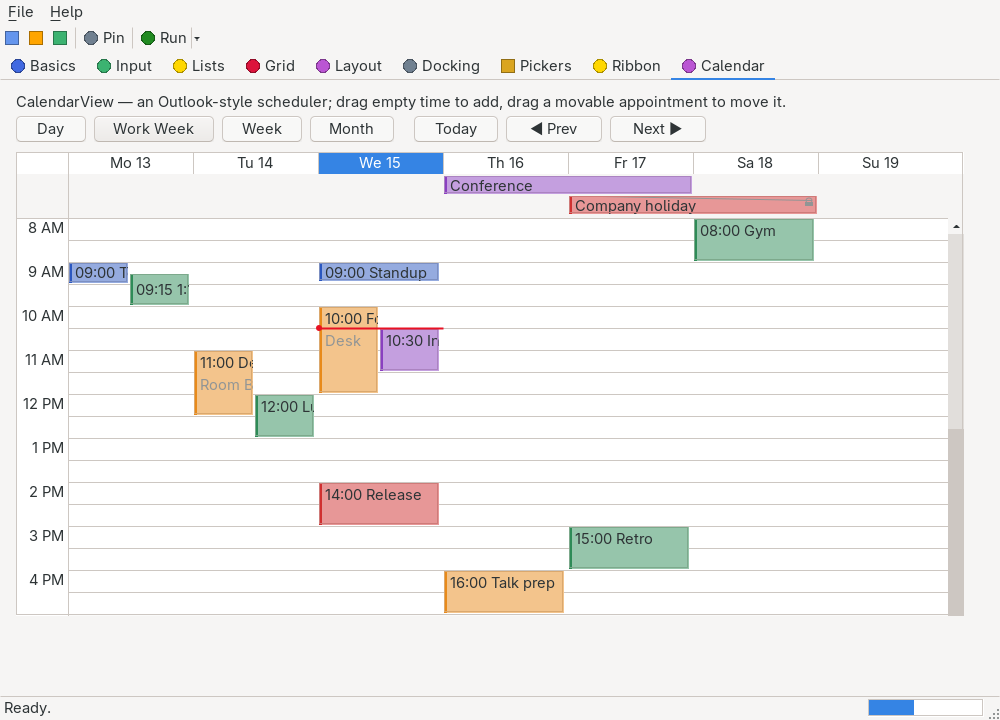
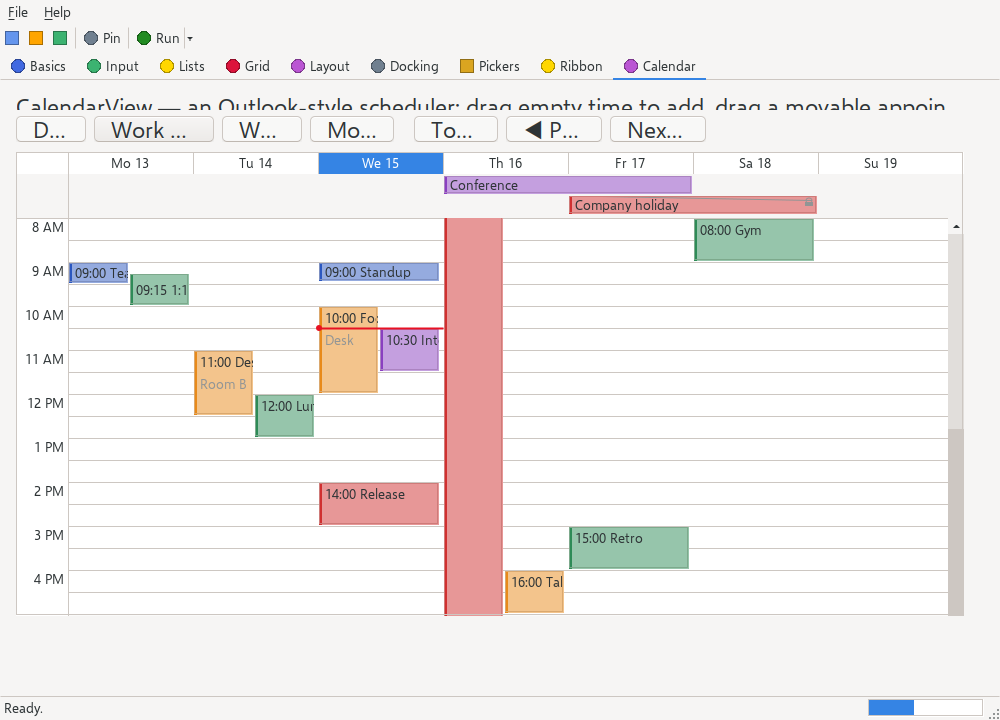
* CalendarView: multi-day timed spans clamp per day with continuation chevrons; only real edges resize (docs/PRD.md §7.5)

diff --git a/NativeForms.Tests/CalendarViewTests.cs b/NativeForms.Tests/CalendarViewTests.cs
@@ -536,4 +536,171 @@ internal sealed class CalendarViewTests
         // the bound set is — the virtualization guarantee.
         Assert.That(calendar.LaidOutBoxCount, Is.LessThan(200), $"{calendar.LaidOutBoxCount} boxes for a week out of 100k appointments");
     }
+
+    // --- Multi-day / out-of-view resize -------------------------------------------------------------
+
+    // A 2026-07-15 10:00 → 2026-07-17 14:00 appointment: three days, its start and end on different days.
+    private static Appointment Trip() => new("Trip", new(2026, 7, 15, 10, 0, 0), new(2026, 7, 17, 14, 0, 0));
+
+    private static CalendarView CreateDay(DateTime day, out HeadlessCanvasPeer canvas, params Appointment[] appts)
+    {
+        var calendar = new CalendarView
+        {
+            Bounds = new(0, 0, 700, 1100),
+            ViewMode = CalendarViewMode.Day,
+            SelectedDate = day,
+            Now = _NowInstant,
+        };
+        calendar.SetAppointments(appts);
+
+        var backend = new HeadlessBackend();
+        var form = new Form();
+        form.Controls.Add(calendar);
+        Application.Run(form, backend);
+        canvas = backend.Created.OfType<HeadlessCanvasPeer>().Single();
+        return calendar;
+    }
+
+    [Test]
+    public void A_multi_day_box_is_clamped_and_flags_its_off_view_edges()
+    {
+        var start = CreateDay(new DateTime(2026, 7, 15), out _, Trip());
+        var middle = CreateDay(new DateTime(2026, 7, 16), out _, Trip());
+        var end = CreateDay(new DateTime(2026, 7, 17), out _, Trip());
+
+        Assert.Multiple(() =>
+        {
+            Assert.That(start.BoxClipFlags(0), Is.EqualTo((false, true)), "the start day owns the real start, continues below");
+            Assert.That(middle.BoxClipFlags(0), Is.EqualTo((true, true)), "a spanned middle day is a continuation both ways");
+            Assert.That(end.BoxClipFlags(0), Is.EqualTo((true, false)), "the end day owns the real end, continues above");
+        });
+    }
+
+    [Test]
+    public void Resizing_the_start_on_the_first_day_leaves_the_off_view_end_untouched()
+    {
+        var calendar = CreateDay(new DateTime(2026, 7, 15), out var canvas, Trip());
+        AppointmentMoveEventArgs? moved = null;
+        calendar.AppointmentMoved += (_, e) => moved = e;
+
+        Assert.That(calendar.TryGetAppointmentBounds(0, out var bounds), Is.True);
+        var cx = bounds.X + (bounds.Width / 2);
+        var top = bounds.Y + 2; // the real start edge at 10:00
+
+        canvas.RaiseMouseDown(cx, top);
+        canvas.RaiseMouseMove(cx, top - (2 * _SlotPx)); // pull the start up one hour → 09:00
+        canvas.RaiseMouseUp(cx, top - (2 * _SlotPx));
+
+        Assert.That(moved, Is.Not.Null);
+        Assert.Multiple(() =>
+        {
+            Assert.That(moved!.Start, Is.EqualTo(new DateTime(2026, 7, 15, 9, 0, 0)), "the start moved earlier");
+            Assert.That(moved.End, Is.EqualTo(new DateTime(2026, 7, 17, 14, 0, 0)), "the out-of-view end held");
+        });
+    }
+
+    [Test]
+    public void Resizing_the_end_on_the_last_day_leaves_the_off_view_start_untouched()
+    {
+        var calendar = CreateDay(new DateTime(2026, 7, 17), out var canvas, Trip());
+        AppointmentMoveEventArgs? moved = null;
+        calendar.AppointmentMoved += (_, e) => moved = e;
+
+        Assert.That(calendar.TryGetAppointmentBounds(0, out var bounds), Is.True);
+        var cx = bounds.X + (bounds.Width / 2);
+        var bottom = bounds.Bottom - 3; // the real end edge at 14:00
+
+        canvas.RaiseMouseDown(cx, bottom);
+        canvas.RaiseMouseMove(cx, bottom - (2 * _SlotPx)); // pull the end up one hour → 13:00
+        canvas.RaiseMouseUp(cx, bottom - (2 * _SlotPx));
+
+        Assert.That(moved, Is.Not.Null);
+        Assert.Multiple(() =>
+        {
+            Assert.That(moved!.Start, Is.EqualTo(new DateTime(2026, 7, 15, 10, 0, 0)), "the out-of-view start held");
+            Assert.That(moved.End.Date, Is.EqualTo(new DateTime(2026, 7, 17)), "the end stayed on the last day");
+            Assert.That(moved.End, Is.LessThan(new DateTime(2026, 7, 17, 14, 0, 0)), "and moved earlier");
+            Assert.That(moved.End, Is.GreaterThan(moved.Start), "still a valid span");
+            Assert.That((moved.End - moved.End.Date).TotalMinutes % calendar.TimeScale, Is.Zero, "snapped to a slot");
+        });
+    }
+
+    [Test]
+    public void A_continuation_edge_moves_the_appointment_rather_than_resizing_it()
+    {
+        // On the end day the top edge is a continuation from the previous day: grabbing it must not be
+        // read as a start-resize (which would keep the end and shrink the span), but as a whole move.
+        var calendar = CreateDay(new DateTime(2026, 7, 17), out var canvas, Trip());
+        AppointmentMoveEventArgs? moved = null;
+        calendar.AppointmentMoved += (_, e) => moved = e;
+        var originalSpan = Trip().End - Trip().Start;
+
+        Assert.That(calendar.TryGetAppointmentBounds(0, out var bounds), Is.True);
+        var cx = bounds.X + (bounds.Width / 2);
+        var top = bounds.Y + 2; // the clamped continuation edge
+
+        canvas.RaiseMouseDown(cx, top);
+        canvas.RaiseMouseMove(cx, top + (4 * _SlotPx));
+        canvas.RaiseMouseUp(cx, top + (4 * _SlotPx));
+
+        Assert.That(moved, Is.Not.Null);
+        Assert.That(moved!.End - moved.Start, Is.EqualTo(originalSpan), "the span is preserved — a move, not an edge resize");
+    }
+
+    [Test]
+    public void A_spanned_middle_day_paints_without_error_and_moves_from_either_edge()
+    {
+        var calendar = CreateDay(new DateTime(2026, 7, 16), out var canvas, Trip());
+        Assert.DoesNotThrow(() => canvas.RaisePaint(), "the both-way continuation chevrons paint");
+
+        AppointmentMoveEventArgs? moved = null;
+        calendar.AppointmentMoved += (_, e) => moved = e;
+        var span = Trip().End - Trip().Start;
+
+        Assert.That(calendar.TryGetAppointmentBounds(0, out var bounds), Is.True);
+        var cx = bounds.X + (bounds.Width / 2);
+
+        canvas.RaiseMouseDown(cx, bounds.Y + 2);
+        canvas.RaiseMouseMove(cx, bounds.Y + 2 + (3 * _SlotPx));
+        canvas.RaiseMouseUp(cx, bounds.Y + 2 + (3 * _SlotPx));
+
+        Assert.That(moved, Is.Not.Null);
+        Assert.That(moved!.End - moved.Start, Is.EqualTo(span), "neither continuation edge resizes; it moves");
+    }
+
+    [Test]
+    public void An_appointment_starting_before_the_visible_range_is_clamped_on_the_first_day()
+    {
+        // Starts five days before the shown week and ends inside it — the classic "starts out of view".
+        var early = new Appointment("Away", new(2026, 7, 10, 8, 0, 0), new(2026, 7, 14, 12, 0, 0));
+        var calendar = new CalendarView { Bounds = new(0, 0, 900, 1100), SelectedDate = _Week, Now = _NowInstant };
+        calendar.SetAppointments(new[] { early });
+        var backend = new HeadlessBackend();
+        var form = new Form();
+        form.Controls.Add(calendar);
+        Application.Run(form, backend);
+
+        var flags = calendar.BoxClipFlags(0); // first visible day is Monday 2026-07-13
+        Assert.That(flags.ClipStart, Is.True, "the real start is before the week, so the first day's box is a continuation");
+    }
+
+    [Test]
+    public void Hovering_a_real_edge_shows_the_resize_cursor()
+    {
+        var calendar = CreateDay(new DateTime(2026, 7, 15), out var canvas, Trip());
+        Assert.That(calendar.TryGetAppointmentBounds(0, out var bounds), Is.True);
+        var cx = bounds.X + (bounds.Width / 2);
+
+        canvas.RaiseMouseMove(cx, bounds.Y + 2); // over the real start edge
+        var onEdge = ((HeadlessCanvasPeer)calendar.Peer!).Cursor;
+
+        canvas.RaiseMouseMove(cx, bounds.Y + (bounds.Height / 2)); // over the body
+        var onBody = ((HeadlessCanvasPeer)calendar.Peer!).Cursor;
+
+        Assert.Multiple(() =>
+        {
+            Assert.That(onEdge, Is.SameAs(Cursors.SizeNS), "the real edge offers a north-south resize cursor");
+            Assert.That(onBody, Is.Not.SameAs(Cursors.SizeNS), "the body does not");
+        });
+    }
 }

diff --git a/NativeForms.Core/Controls/CalendarView.cs b/NativeForms.Core/Controls/CalendarView.cs
@@ -48,6 +48,18 @@ public class CalendarView : OwnerDrawnControl
         public Rectangle Rect;
         public bool Timed;
         public string Text;
+
+        /// <summary>The day column this box belongs to — the base date its clamped top/bottom edges
+        /// are measured from, so a resize on a multi-day box anchors to the right day.</summary>
+        public DateTime Day;
+
+        /// <summary>Whether the top edge is a clamped continuation from an earlier day (the real start
+        /// is out of view), not the appointment's actual start — so it offers no start-resize.</summary>
+        public bool ClipStart;
+
+        /// <summary>Whether the bottom edge is a clamped continuation into a later day (the real end is
+        /// out of view), not the appointment's actual end — so it offers no end-resize.</summary>
+        public bool ClipEnd;
     }
 
     /// <summary>What an armed appointment drag is doing: sliding the whole body to a new time, or
@@ -127,6 +139,7 @@ public class CalendarView : OwnerDrawnControl
     private int _moveGrabPixels;
     private int _moveGrabDays;
     private int _moveDurationMinutes;
+    private DateTime _moveDay;   // the box's day column, the base date a resize anchors to
     private string? _moveSubject;
     private Color _moveAccent;
     private DateTime _previewStart;
@@ -365,6 +378,19 @@ public class CalendarView : OwnerDrawnControl
         return false;
     }
 
+    /// <summary>The continuation-clamp flags of the first laid-out timed box for an appointment index —
+    /// <c>ClipStart</c>/<c>ClipEnd</c> mark a box whose top/bottom edge is a multi-day continuation
+    /// rather than the real start/end. For tests of the out-of-view multi-day handling.</summary>
+    internal (bool ClipStart, bool ClipEnd) BoxClipFlags(int index)
+    {
+        this.EnsureLayout();
+        for (var i = 0; i < _layout.Count; ++i)
+            if (_layout[i].Index == index && _layout[i].Timed)
+                return (_layout[i].ClipStart, _layout[i].ClipEnd);
+
+        return (false, false);
+    }
+
     // --- Geometry ----------------------------------------------------------------------------------
 
     private bool IsMonth => _viewMode == CalendarViewMode.Month;
@@ -599,8 +625,10 @@ public class CalendarView : OwnerDrawnControl
         for (var k = 0; k < n; ++k)
         {
             var appt = _appointments[_dayScratch[k]];
-            var startMinutes = appt.Start < dayStart ? 0 : (int)(appt.Start - dayStart).TotalMinutes;
-            var endMinutes = appt.End > dayEnd ? 1440 : (int)(appt.End - dayStart).TotalMinutes;
+            var clipStart = appt.Start < dayStart;
+            var clipEnd = appt.End > dayEnd;
+            var startMinutes = clipStart ? 0 : (int)(appt.Start - dayStart).TotalMinutes;
+            var endMinutes = clipEnd ? 1440 : (int)(appt.End - dayStart).TotalMinutes;
             if (endMinutes <= startMinutes)
                 endMinutes = startMinutes + _timeScale;
 
@@ -615,6 +643,9 @@ public class CalendarView : OwnerDrawnControl
                 Timed = true,
                 Text = ChipText(appt),
                 Rect = new(x, top + 1, Math.Max(1, slotWidth - 2), Math.Max(this.ChipHeight, bottom - top - 2)),
+                Day = dayStart,
+                ClipStart = clipStart,
+                ClipEnd = clipEnd,
             });
         }
     }
@@ -1038,6 +1069,14 @@ public class CalendarView : OwnerDrawnControl
         if (!appt.Movable)
             PaintLock(g, new(rect.Right - 12, rect.Y + 2, 8, 8), theme.DisabledText);
 
+        // A multi-day box continues off this day: a small chevron at the clamped edge says so, and
+        // marks the edge that carries no resize grab.
+        if (box.ClipStart && rect.Width > 12)
+            Glyphs.PaintTriangle(g, accent, new(rect.X + (rect.Width / 2) - 4, rect.Y + 1, 8, 4), GlyphDirection.Up);
+
+        if (box.ClipEnd && rect.Width > 12)
+            Glyphs.PaintTriangle(g, accent, new(rect.X + (rect.Width / 2) - 4, rect.Bottom - 5, 8, 4), GlyphDirection.Down);
+
         g.PopClip();
 
         if (selected)
@@ -1212,6 +1251,40 @@ public class CalendarView : OwnerDrawnControl
 
     /// <summary>Arms a reschedule on a movable appointment: records the grab and seeds the preview. A
     /// non-movable appointment is refused here, so it never drags and shows no move affordance.</summary>
+    /// <summary>Which edge (if any) a y falls on for a timed box, honoring the resizable-height floor
+    /// and the continuation clamps: a clamped edge is a continuation, not a real start/end, so it never
+    /// resizes — a multi-day box's off-view edge stays put.</summary>
+    private static DragKind EdgeKindOf(ApptBox box, int screenTop, int y)
+    {
+        if (box.Rect.Height < _EdgeGrab * 3)
+            return DragKind.Move;
+
+        var screenBottom = screenTop + box.Rect.Height;
+        if (!box.ClipStart && y - screenTop <= _EdgeGrab)
+            return DragKind.ResizeStart;
+
+        if (!box.ClipEnd && screenBottom - y <= _EdgeGrab)
+            return DragKind.ResizeEnd;
+
+        return DragKind.Move;
+    }
+
+    /// <summary>The resize edge under a client point, or <see cref="DragKind.Move"/> when the point is
+    /// not on a movable timed box's real edge — the basis for the resize cursor.</summary>
+    private DragKind EdgeKindAt(int x, int y)
+    {
+        var hit = this.HitTestBox(x, y);
+        if (hit < 0)
+            return DragKind.Move;
+
+        var box = _layout[hit];
+        if (!box.Timed || !_appointments[box.Index].Movable)
+            return DragKind.Move;
+
+        var screenTop = box.Rect.Y + this.BodyBounds.Y - _scrollY;
+        return EdgeKindOf(box, screenTop, y);
+    }
+
     private void PrimeMove(ApptBox box, int index, MouseEventArgs e)
     {
         var appt = _appointments[index];
@@ -1231,14 +1304,8 @@ public class CalendarView : OwnerDrawnControl
         {
             var body = this.BodyBounds;
             var screenTop = box.Rect.Y + body.Y - _scrollY;
-            var screenBottom = screenTop + box.Rect.Height;
-
-            // Only a tall enough box offers edge-resize; a short one is all move so it never becomes
-            // impossible to slide.
-            var resizable = box.Rect.Height >= _EdgeGrab * 3;
-            _dragKind = resizable && e.Y - screenTop <= _EdgeGrab ? DragKind.ResizeStart
-                : resizable && screenBottom - e.Y <= _EdgeGrab ? DragKind.ResizeEnd
-                : DragKind.Move;
+            _moveDay = box.Day;
+            _dragKind = EdgeKindOf(box, screenTop, e.Y);
             _moveGrabPixels = e.Y - screenTop;
         }
         else
@@ -1273,19 +1340,25 @@ public class CalendarView : OwnerDrawnControl
         {
             case DragKind.ResizeStart:
             {
-                var endMin = (int)(appt.End - appt.Start.Date).TotalMinutes;
-                var min = Math.Clamp(this.SnapMinutes(this.MinutesForY(e.Y - grid.Y + _scrollY)), 0, endMin - _timeScale);
-                _previewStart = appt.Start.Date.AddMinutes(min);
+                // Anchor to the box's own day: the moved start stays on that day, capped below by the
+                // end (relative to the day, but never past midnight since the start cannot leave the day).
+                var endRel = (int)(appt.End - _moveDay).TotalMinutes;
+                var upper = Math.Min(1440, endRel) - _timeScale;
+                var min = Math.Clamp(this.SnapMinutes(this.MinutesForY(e.Y - grid.Y + _scrollY)), 0, Math.Max(0, upper));
+                _previewStart = _moveDay.AddMinutes(min);
                 _previewEnd = appt.End;
                 break;
             }
 
             case DragKind.ResizeEnd:
             {
-                var startMin = (int)(appt.Start - appt.Start.Date).TotalMinutes;
-                var min = Math.Clamp(this.SnapMinutes(this.MinutesForY(e.Y - grid.Y + _scrollY)), startMin + _timeScale, 1440);
+                // Anchor to the box's own day: the moved end stays on that day, floored above by the
+                // start (relative to the day; a start on an earlier day floors at the first slot).
+                var startRel = (int)(appt.Start - _moveDay).TotalMinutes;
+                var lower = Math.Max(0, startRel) + _timeScale;
+                var min = Math.Clamp(this.SnapMinutes(this.MinutesForY(e.Y - grid.Y + _scrollY)), lower, 1440);
                 _previewStart = appt.Start;
-                _previewEnd = appt.Start.Date.AddMinutes(min);
+                _previewEnd = _moveDay.AddMinutes(min);
                 break;
             }
 
@@ -1448,7 +1521,11 @@ public class CalendarView : OwnerDrawnControl
         }
 
         if (!_rangeDragging)
+        {
+            // Idle: show the north-south resize cursor over a real (non-continuation) timed edge.
+            this.SetRegionCursor(this.EdgeKindAt(e.X, e.Y) != DragKind.Move ? Cursors.SizeNS : null);
             return;
+        }
 
         if (this.IsMonth)
         {

diff --git a/NativeForms.Demo/MainForm.CalendarPage.cs b/NativeForms.Demo/MainForm.CalendarPage.cs
@@ -40,6 +40,9 @@ internal sealed partial class MainForm
             new("Talk prep", mon.AddDays(3).AddHours(16), mon.AddDays(3).AddHours(17), _CatFocus),
             new("Retro", mon.AddDays(4).AddHours(15), mon.AddDays(4).AddHours(16), _CatPersonal),
             new("Gym", mon.AddDays(5).AddHours(8), mon.AddDays(5).AddHours(9), _CatPersonal),
+            // A multi-day timed span: it clamps to each day it crosses and shows continuation
+            // chevrons, and only its real start/end edges (not the clamped ones) offer a resize.
+            new("On-call", mon.AddDays(2).AddHours(20), mon.AddDays(4).AddHours(6), _CatUrgent, Location: "Ops"),
             // A locked entry: the whole day is off, and it must not be dragged onto another slot.
             new("Company holiday", mon.AddDays(4), mon.AddDays(5), _CatUrgent, AllDay: true, Movable: false),
         ];

diff --git a/docs/PRD.md b/docs/PRD.md
@@ -456,10 +456,12 @@ strategy (may differ per platform; note exceptions inline).
       "+n more" overflow; reflection-free `SetAppointments<T>(…, Func<T,Appointment>)` binding into a
       start-sorted snapshot; side-by-side overlap column packing; click select (`SelectionChanged`),
       double-click/Enter `AppointmentActivate`, empty-time drag `TimeRangeSelected` (`DateRangeEventArgs`),
-      drag-to-move/edge-resize of a movable appointment with a live snapped ghost — cancelable
-      `AppointmentMoving` then `AppointmentMoved` (`AppointmentMoveEventArgs`), the app applies + re-binds,
-      per-entry lockable via `Appointment.Movable` (locked entries show a padlock and refuse to drag),
-      Escape cancels; keyboard/wheel navigation; virtualized (only visible days laid out, bounded for
+      drag-to-move/edge-resize of a movable appointment with a live snapped ghost and a north-south
+      resize cursor — cancelable `AppointmentMoving` then `AppointmentMoved` (`AppointmentMoveEventArgs`),
+      the app applies + re-binds, per-entry lockable via `Appointment.Movable` (locked entries show a
+      padlock and refuse to drag), Escape cancels; multi-day timed spans clamped per overlapping day
+      with continuation chevrons — only a real (non-clamped) edge resizes, an off-view edge stays put;
+      keyboard/wheel navigation; virtualized (only visible days laid out, bounded for
       100k), cached layout so populated repaints allocate zero — including a live drag preview — (empty
       ≈ 624 B, `Appointment` ≈ 48 B)
 - [~] `DateTimePicker` (owner field + popup calendar sharing `CalendarCore`) — Long/Short/Time/

diff --git a/docs/controls/calendarview.md b/docs/controls/calendarview.md
@@ -98,10 +98,11 @@ Inherits the common members of [`Control`](control.md), plus the owner-drawn sur
 - **Overlap packing**: within a day column, appointments that overlap in time are laid **side by side** — the classic Outlook column packing. Each maximal cluster of mutually overlapping appointments is swept once, every appointment takes the first free column, and all members share the cluster's column count as their width. All-day appointments stack into the band on the first free row across the days they span.
 - **Month overflow**: a day cell shows up to four chips; the rest collapse into a "+n more" marker so a busy day never spills its cell.
 - **Interaction**: a click selects an appointment (`SelectionChanged`); a double-click or Enter raises `AppointmentActivate`; a click-drag on empty time (or empty month days) selects a range and raises `TimeRangeSelected`. The toolbar in the demo switches views and navigates; `SelectedDate`, `Next`/`Previous` and `GoToToday` do it in code. The keyboard moves the day/period (Left/Right, Up/Down, PageUp/PageDown, Home = today) and the wheel scrolls the time grid in Day/Week or pages the Month.
-- **Moving appointments**: press on a `Movable` appointment's body and drag past a small threshold to reschedule it — a live translucent ghost shows where it will land, snapped to `TimeScale` in Day/Week and to the whole day in Month, with the original left in place until the drop. In Day/Week the top or bottom **edge** resizes the start or the end instead (Outlook-style). On drop the control raises the cancelable `AppointmentMoving` (a handler may veto or validate), then `AppointmentMoved`; **Escape** during the drag cancels, and a press that never crosses the threshold is a plain click that still selects. The control owns no storage, so it **never mutates the snapshot** — a move is a proposal the app applies to its model and re-binds with `SetAppointments`, exactly the grid's setter/validation idiom. A locked (`Movable = false`) appointment does not drag and shows a small padlock.
+- **Moving appointments**: press on a `Movable` appointment's body and drag past a small threshold to reschedule it — a live translucent ghost shows where it will land, snapped to `TimeScale` in Day/Week and to the whole day in Month, with the original left in place until the drop. In Day/Week the top or bottom **edge** resizes the start or the end instead (Outlook-style), and hovering a resizable edge shows the north-south resize cursor. On drop the control raises the cancelable `AppointmentMoving` (a handler may veto or validate), then `AppointmentMoved`; **Escape** during the drag cancels, and a press that never crosses the threshold is a plain click that still selects. The control owns no storage, so it **never mutates the snapshot** — a move is a proposal the app applies to its model and re-binds with `SetAppointments`, exactly the grid's setter/validation idiom. A locked (`Movable = false`) appointment does not drag and shows a small padlock.
+- **Multi-day & out-of-view appointments**: a timed appointment that spans more than one day is laid out on **every** day it overlaps, its box clamped to that day's `00:00`..`24:00`; a day where its real start or end falls off-view (an earlier or later day) paints a continuation **chevron** at the clamped edge. Only the box's **real** start/end edge offers a resize — a clamped continuation edge is dragged as a whole move, not an edge resize, so pulling the visible edge of a multi-day appointment never disturbs the end that sits off-screen. The same holds vertically: an appointment scrolled partly out of the time grid keeps its real bounds and only its on-screen edge is grabbable.
 - **Virtualization & footprint**: appointments are held in one flat, start-sorted array; only the appointments intersecting the visible days are ever laid out, pulled by a binary search bounded by the widest appointment, so a set of a hundred thousand costs the same per frame as a set of ten. The overlap packing and pixel geometry are cached and rebuilt only when the data, the shown period, the view mode or the size changes — a plain repaint (the "now" line ticking, a hover, a vertical scroll) reuses the cached layout and every display string, so it allocates **nothing**. A live move/resize drag is allocation-free too: the ghost's geometry is recomputed each frame from reused value-type preview fields, and the drag's only allocation is the one `AppointmentMoveEventArgs` created on the drop. Measured: an empty control ≈ 624 B; an `Appointment` ≈ 48 B (the `Movable` flag packs into the struct's existing padding); 100 steady-state repaints of a populated week or month — with the move preview inactive **and** with an active drag preview on screen — allocate 0 B; a 100 000-appointment scroll traversal stays bounded.
 - Painted with the platform `ITheme` (`FieldBackground` work hours, `HeaderBackground` band, `SelectionBackground`/`SelectionText` today, `Border`/`GridLine` grid, category colours blended toward the field for the chip faces, `Accent` for the selection outline and uncategorized chips).
-- `CalendarViewTests` pin the defaults, the snapshot/sort, the selector binding, the view geometry, click selection and clear, double-click and Enter activation, the overlap packing, the empty-time drag range, the movable-appointment move (snapped `AppointmentMoving`/`AppointmentMoved` in Day, Week and day-granularity Month, plus a bottom-edge resize), the locked appointment refusing to drag, a cancelled proposal leaving the snapshot untouched, a sub-threshold press still selecting, Day/Week/Month navigation, the wheel behaviour, the time-grid and month painting, and the bounded layout for 100 000 appointments.
+- `CalendarViewTests` pin the defaults, the snapshot/sort, the selector binding, the view geometry, click selection and clear, double-click and Enter activation, the overlap packing, the empty-time drag range, the movable-appointment move (snapped `AppointmentMoving`/`AppointmentMoved` in Day, Week and day-granularity Month, plus a bottom-edge resize), the multi-day continuation clamping (start/middle/end-day clip flags, resizing a real edge while the off-view edge holds, a continuation edge moving rather than resizing, and an appointment starting before the visible range) with the edge resize cursor, the locked appointment refusing to drag, a cancelled proposal leaving the snapshot untouched, a sub-threshold press still selecting, Day/Week/Month navigation, the wheel behaviour, the time-grid and month painting, and the bounded layout for 100 000 appointments.
 - Done per [docs/PRD.md](../PRD.md) §7.5.
 
 ## Differences from Outlook / `System.Windows.Forms`